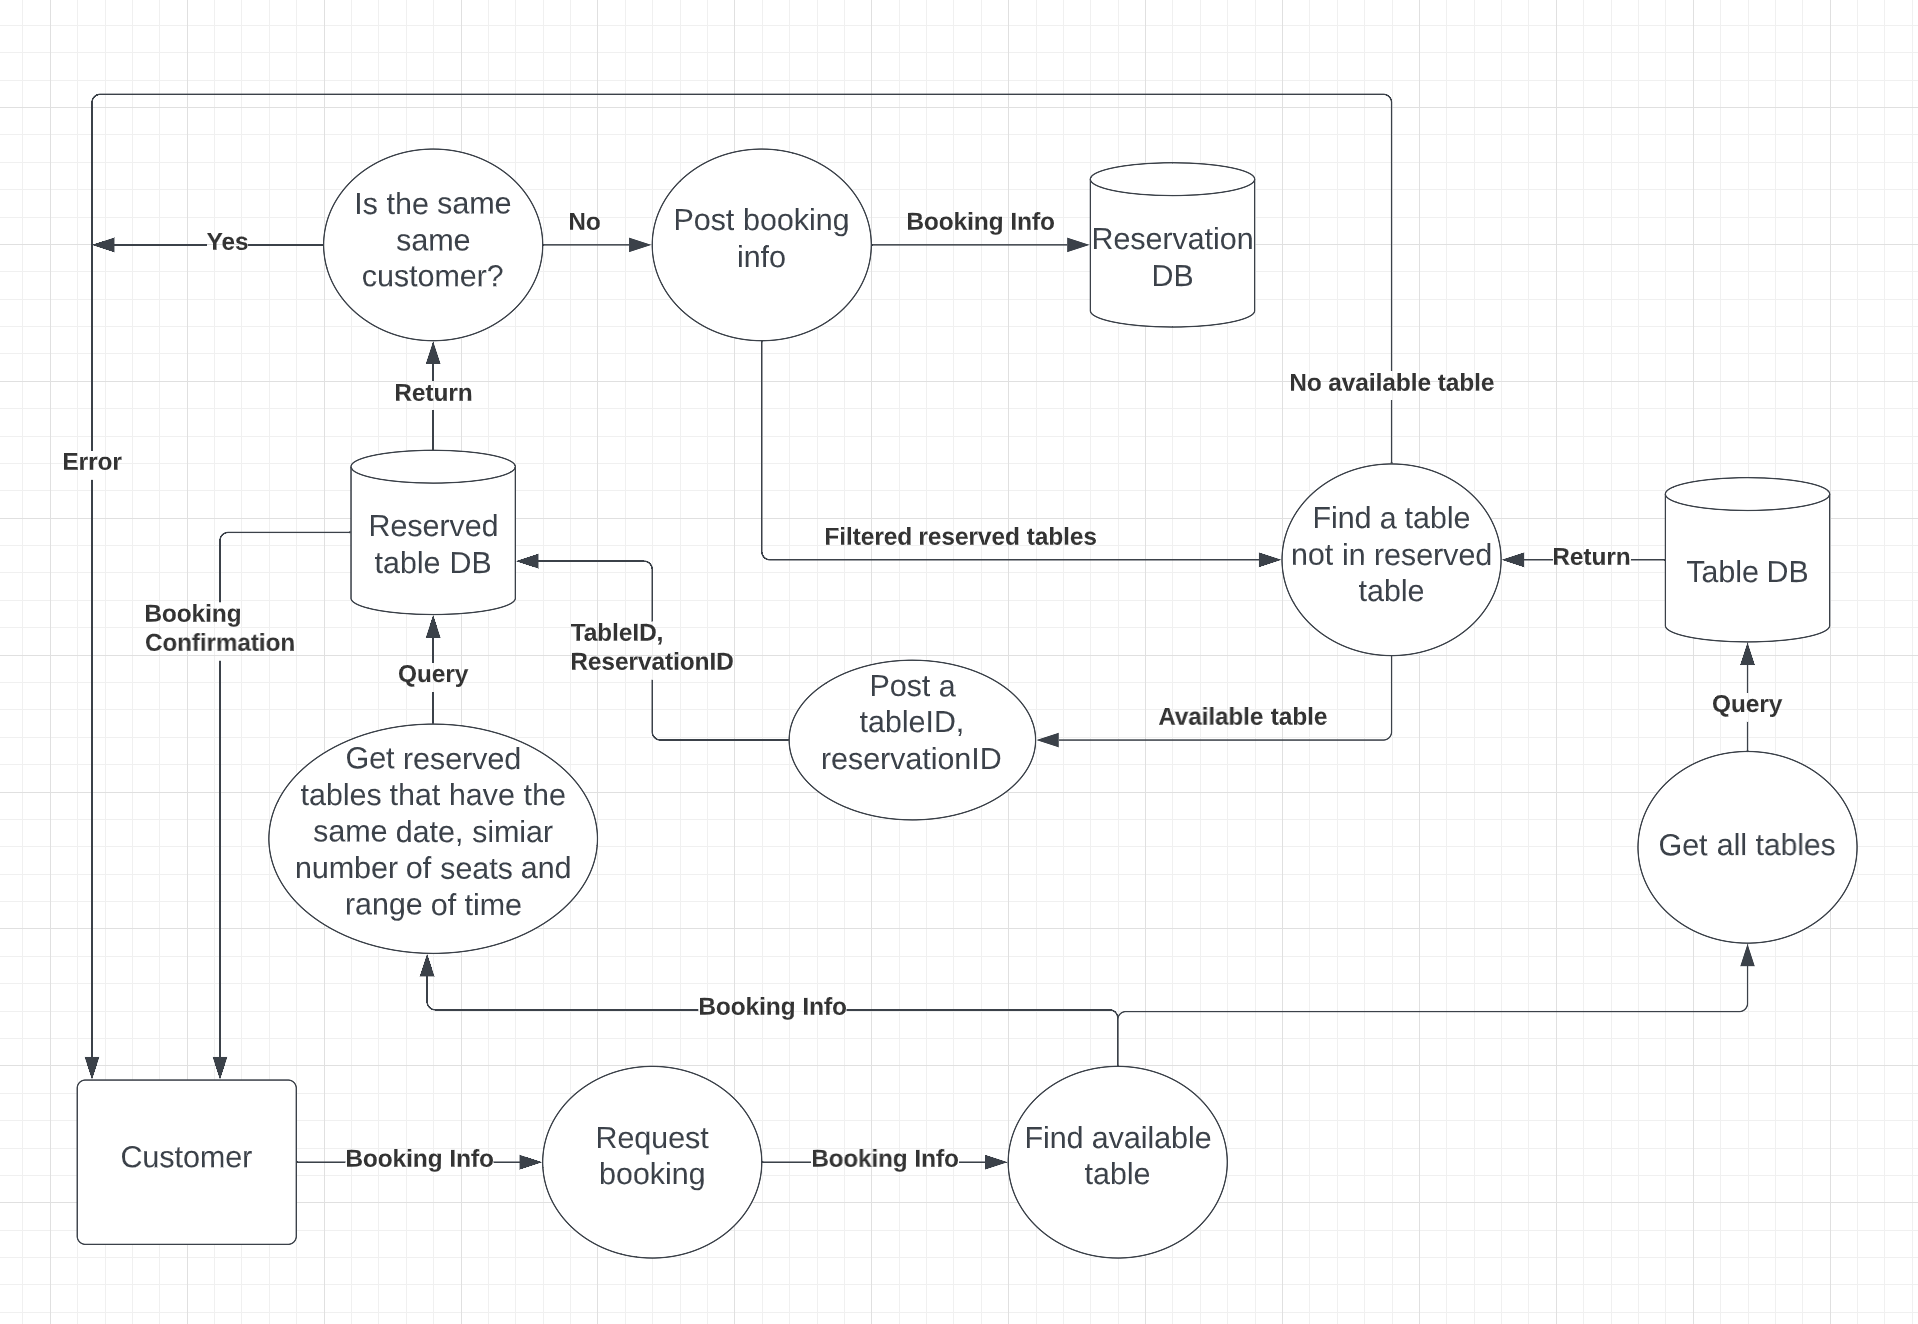
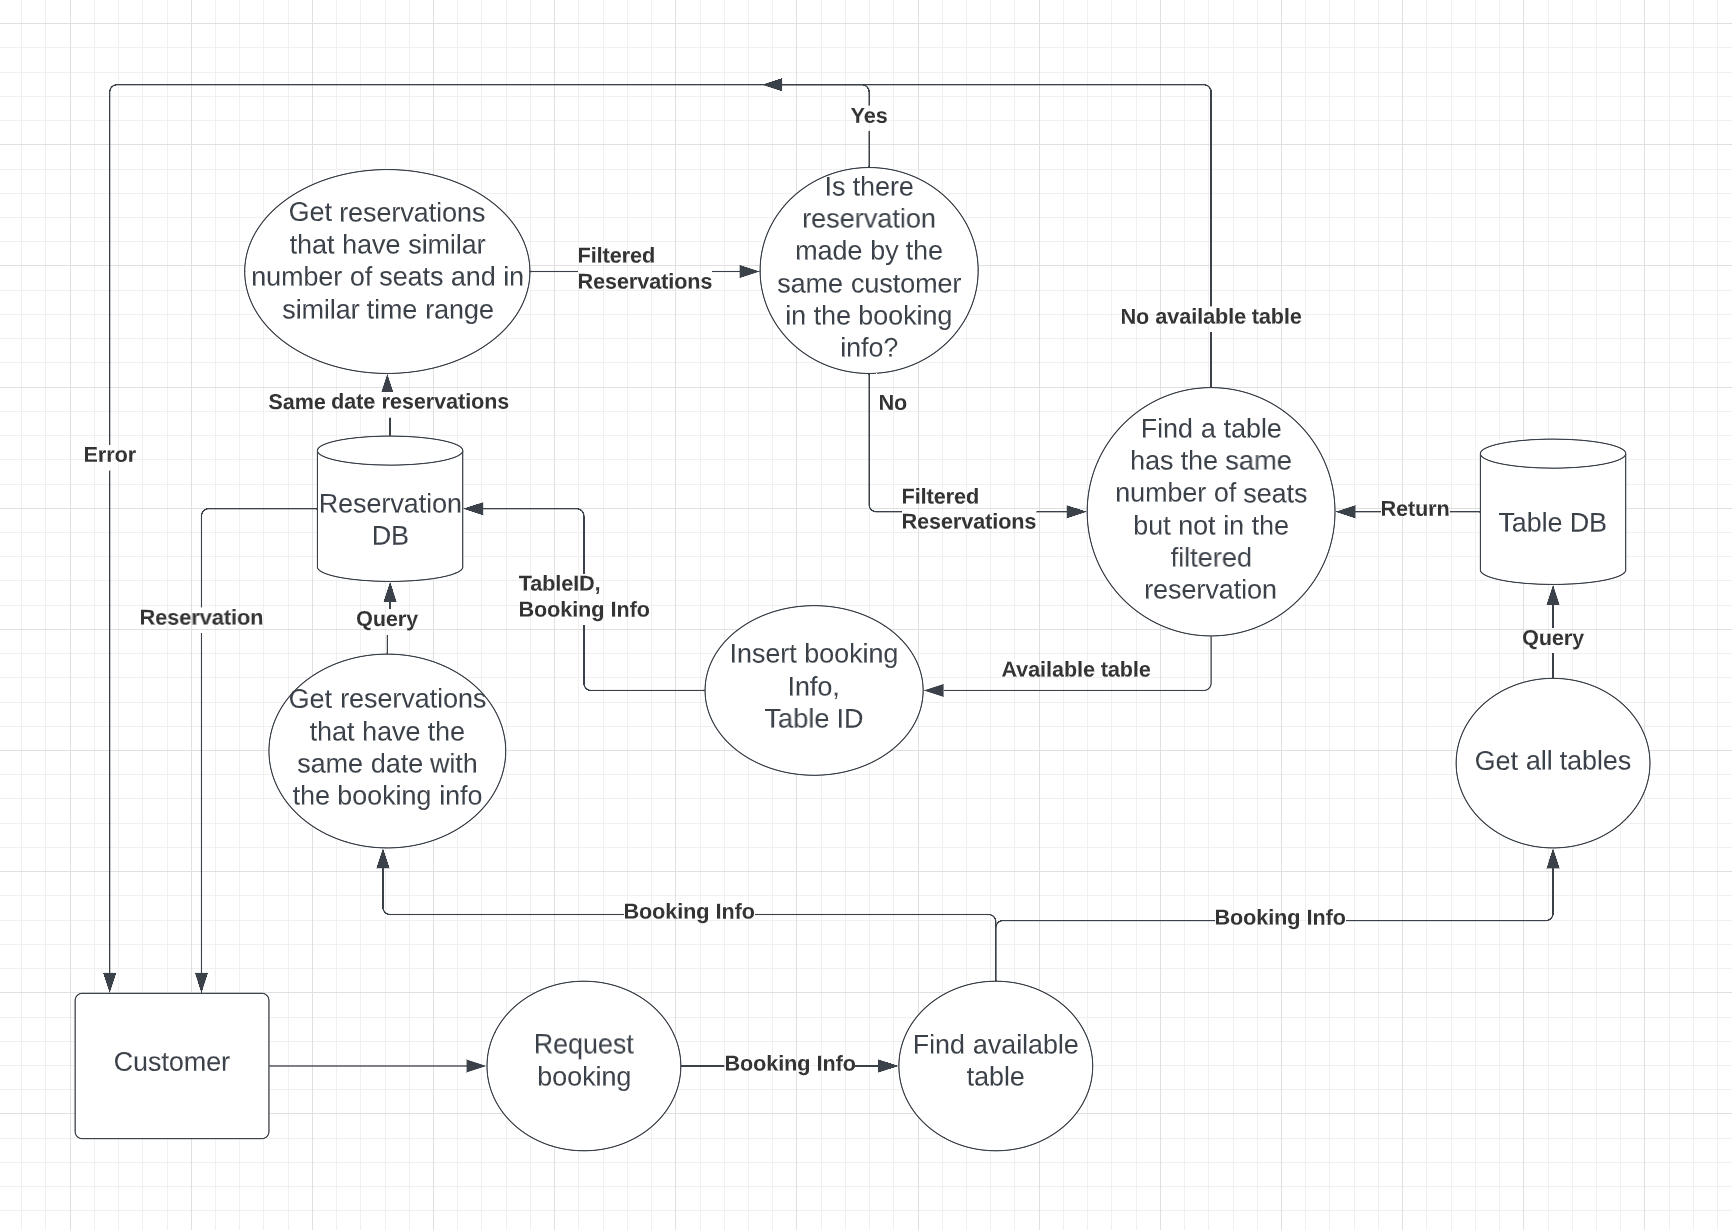
DFD finalised

diff --git a/README.md b/README.md
@@ -74,22 +74,126 @@ Backend:
 
 ## DFD
 
-### Customer booking a table
+### **Database Structure**
 
-![customer booking](docs/booking.png)
+### Table
+
+```js
+{
+  _id : String,
+  tableNumber : Number, // Unique number to identify tables
+  seats: Number // Number of seats that a table has
+}
+```
+
+The table collection represents all tables that a restaurant have.  
+The table collection and documents will be pre seeded into the database because they hardly change.  
+In this project, we will seed the tables with 2 seats, 4 seats and 6 seats.
+
+### Reservation
+
+```js
+{
+  _id: String,
+  tableId: ObjectId, // From Table document, Populate
+  guest: guestSchema // Sub document
+  isConfirmed: Boolean // To identify unconfirmed reservation and confirmed reservation
+}
+```
+
+The reservation collection represents all successfully made reservations.  
+The 'guest' field will exist as a sub document form and will have the following schema:
+
+```js
+{
+  firstName : String,
+  lastName : String,
+  mobile: String, // Mobile number
+  date: Date,  // Visiting date inc time
+  guestNumber: Number //Number of required seats
+}
+```
+
+The above schema is the information that potential customers are required to provide on reservation request.
+
+### Admin
+
+```js
+{
+  id: String //hashed, encrypted
+  password: String //hashed, encrypted
+}
+```
+
+The Admin collection represents an admin account.  
+To read, update and delete the 'Reservation' document, the user must be authenticated by successfully logging in.  
+It will have only one pre-seeded document because having multiple admin accounts is meaningless in this case.
+
+### **Customer book a table**
+
+![customer booking DFD](docs/booking.png)
+
+When a customer request a reservation, we will receive these information filled by the customer:
+
+ 1. First name
+ 2. Last name
+ 3. Mobile number
+ 4. Date (Inc time)
+ 5. Number of guest
+
+This information is represented as **'Booking Info'** in this DFD.
+
+And the API will process the data as follows:
+
+1. Get an array of reservations from the Reservation collection that have the same date value with the date provided in the Booking Info (Except the time at this stage for simplicity)
+2. Filter the reservation array to get another array of reservations that have similar time from (Booking Info's time - 1h 30min) to (Booking Info's time + 1h 30min) and similar number of seats (same number of table seats with the Booking Info's number of guests or one more number of table seats than the Booking Info's number of guests). This will eventually return an array of unavailable tables that is matched with the provided conditions from the Booking Info.
+3. Check if there's any reservation reserved by the same mobile number. This will prevent customers book again accidentally. The reason why we implement this after the process of the number 2 is to allow customers to book again on the different dates or time (lunch/dinner).
+4. If the reservation found that has been made by the same customer, return error. Otherwise, get all tables from the 'Table' collections and filter to get a table that is not in the unavailable tables. This will return an available table that satisfies the condition provided from the 'Booking Info'.
+5. Insert booking info and tableId into the 'Reservation' collection.
+6. Return the newly created document in the 'Reservation' collection.
 
 ### Admin login
 
-![admin login](docs/login.png)
+![admin login DFD](docs/login.png)
 
-### Admin view reservation list
+The Admin ID and Password will be hashed and encrypted and stored in the 'Admin' collection.  
+Therefore, the DFD shows the process of decrypting Admin's credentials from the 'Admin' collection and validate hashed credentials with the provided plain credentials.  
+If it's matched, the JWT will be returned.
 
-![admin view reservation list](docs/view.png)
+### **Admin view reservation list**
 
-### Admin update a reservation
+![admin view reservation list DFD](docs/viewAll.png)
 
-![admin update reservation](docs/update.png)
+The jwt will be required when the user requests to read the reservation list.
+Some API middleware will validate the JWT and the admin credentials are correct.  
+If both of them are valid, it will return the reservation list.  
+Otherwise, it will return error.
 
-### Admin delete a reservation
+### **Admin update a reservation**
 
-![admin delete reservation](docs/delete.png)
+![admin update reservation DFD](docs/update.png)
+
+Same as above, it will validate the JWT and the admin credentials first.  
+Then it will check which data is requested to be updated.  
+Because if any of the time, date, number of guests or table is requested to be updated, it needs to get an available table that satisfies the condition again.  
+Therefore, if any of attempting of changing those values is detected, it will go through the process of finding an available table mentioned in the 'Customer booking DFD'.  
+Otherwise, it will update the reservation directly.
+
+### **Admin delete a reservation**
+
+![admin delete reservation DFD](docs/delete.png)
+
+Same as above, it will validate the JWT and the admin credentials first.  
+Then it will find the document by its ID from the 'Reservation' collection, and delete it.  
+if no matching document is found, it will return an error.
+
+### **Admin search reservation(s) by mobile number**
+
+![admin search reservation by mobile DFD](docs/find.png)
+
+Same as above, it will validate the JWT and the admin credentials first.  
+Searching a specific reservation is a necessary function for the restaurant workers.  
+Because when they want to update, delete or read a specific reservation, the target reservation is needed to be found first.  
+To prepare for such cases, we have decided to make the restaurant workers to be able to search a reservation or reservations (booked by the same person for multiple times) by the customer's mobile number because the mobile number is unique.  
+Therefore, if the mobile number is not found from the 'Reservation' collection, it will return an error.  
+If it's found, it will return an array of reservation that have the same mobile number.
